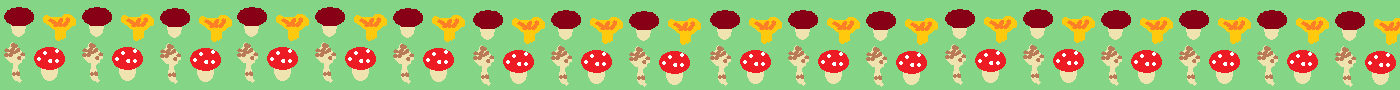
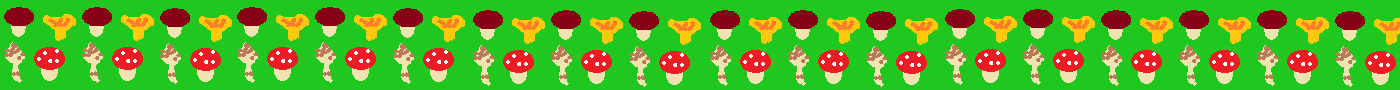
baner view fixed

diff --git a/MushroomForum/wwwroot/js/site-theme.js b/MushroomForum/wwwroot/js/site-theme.js
@@ -7,8 +7,8 @@ var dropdownList = dropdownElementList.map(function (dropdownToggleEl) {
 // Funkcja zmieniająca motyw
 function toggleTheme() {
     const link = document.getElementById('themeStylesheet');
-    const currentHref = link.getAttribute('href');
     const bannerImg = document.querySelector('.banner img');
+    const currentHref = link.getAttribute('href');
 
     if (currentHref.includes('site.css') && !currentHref.includes('site2.css')) {
         link.setAttribute('href', '/css/site2.css');
@@ -24,3 +24,22 @@ function toggleTheme() {
         }
     }
 }
+// Funkcja ustawiająca motyw przy starcie strony
+function applySavedTheme() {
+    const savedTheme = localStorage.getItem('theme');
+    const link = document.getElementById('themeStylesheet');
+    const bannerImg = document.querySelector('.banner img');
+
+    if (savedTheme === 'dark') {
+        link.setAttribute('href', '/css/site2.css');
+        if (bannerImg) {
+            bannerImg.src = '/images/baner-dark.png';
+        }
+    } else {
+        link.setAttribute('href', '/css/site.css');
+        if (bannerImg) {
+            bannerImg.src = '/images/baner-light.png';
+        }
+    }
+}
+applySavedTheme();
